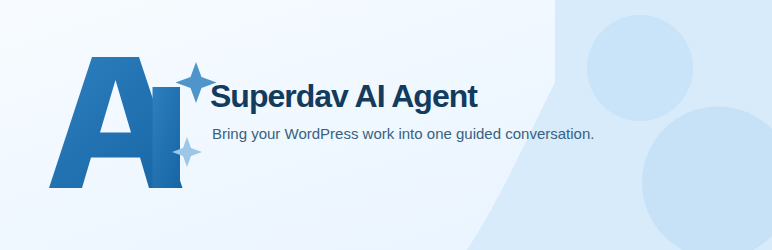
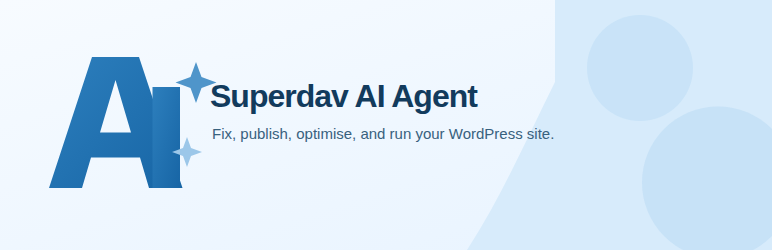
docs: lead listing with site outcomes

Changed region(s): [[0.2798, 0.504, 0.7772, 0.588]]

diff --git a/README.md b/README.md
@@ -11,7 +11,7 @@
 
 [Documentation](https://github.com/Ultimate-Multisite/sd-ai-agent/wiki)
 
-A universal AI agent for WordPress. It connects to every plugin on your site through WordPress's Abilities API, giving a single AI assistant the power to manage content, products, users, SEO, analytics, media, and more — across any plugin that registers abilities. Bring your own API key, choose any AI provider, and pay only what your provider charges.
+Your AI teammate for the WordPress site you already run. Ask one assistant to improve content, prepare products, review SEO and site information, and automate repeatable work — while keeping your existing theme, plugins, and AI provider. The technical foundation below lets compatible plugins add tools the assistant can use as your site grows.
 
 ## How it works
 
